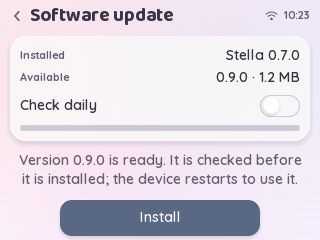
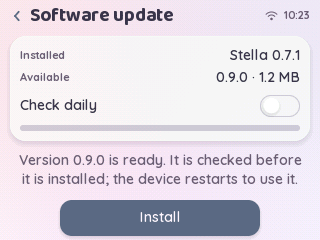
Explain a reset during an update, and erase flash as the image arrives (0.7.1)
Reported on a CYD: OTA from 0.6.0 to 0.6.1 started downloading and then the
device restarted at 0 % and showed Home. Without a serial cable nothing says
why, and the cause is not known yet. Two changes, one to find out and one for
the most likely suspect:

- An update leaves a note in retained RAM next to the supervisor's restart
  record (update_crumb): starting, downloading N %, finishing. The next boot
  reports it once (log, SystemStatus::resetNote) and Settings > About > Last
  reset reads e.g. "Crash · update: downloading 34%" (or Watchdog, Brownout).
  Handled outcomes (success, every failure) clear it, so it only appears
  after a real reset. Validated by magic + checksum; random memory after
  power-on is ignored.
- Esp32Firmware::begin() used esp_ota_begin(part, size) which erases the whole
  1.4 MB slot before the first byte: several seconds of continuous flash
  erase, the longest and most power-hungry step, and exactly where a reset
  "at 0 %" would happen (task watchdog or brownout). It now passes
  OTA_WITH_SEQUENTIAL_WRITES: sectors are erased as the image is written.

Tests: 161 (4 new: the crumb round trip, single report and garbage handling;
a reset note after restart; stages seen during an install and none afterwards;
a failed install leaves none). Firmware 1,466,935 B (74 %), 83,100 B RAM.
Not run on the device: whether this fixes the restart is unknown.

Claude-Session: https://claude.ai/code/session_01WrCzyR31TQn5da2N4PH2yW

Changed region(s): [[0.6875, 0.2042, 0.9375, 0.2625]]

diff --git a/src/stella/net/firmware_update.cpp b/src/stella/net/firmware_update.cpp
@@ -1,6 +1,8 @@
 #include "firmware_update.h"
 
 #include <math.h>
+#include <stddef.h>
+#include <stdio.h>
 #include <string.h>
 
 #include "../core/log.h"
@@ -11,7 +13,64 @@ namespace {
 
 constexpr const char *kTag = "update";
 
+constexpr uint32_t kCrumbMagic = 0x43524d42u;  // "CRMB"
+
+struct Crumb {
+  uint32_t magic;
+  uint8_t stage, percent;
+  uint16_t reserved;
+  uint32_t check;
+};
+static_assert(sizeof(Crumb) == update_crumb::kBytes, "crumb layout");
+
+unsigned char *crumbBlock(Platform *platform) {
+  if (!platform) return nullptr;
+  size_t size = 0;
+  unsigned char *block = static_cast<unsigned char *>(platform->retainedMemory(size));
+  return block && size >= update_crumb::kOffset + sizeof(Crumb) ? block + update_crumb::kOffset : nullptr;
+}
+
+uint32_t crumbCheck(const Crumb &c) { return hash32(&c, offsetof(Crumb, check)); }
+
 }  // namespace
+
+namespace update_crumb {
+
+void set(Platform *platform, uint8_t stage, uint8_t percent) {
+  unsigned char *block = crumbBlock(platform);
+  if (!block) return;
+  Crumb c{};
+  if (stage != None) {
+    c.magic = kCrumbMagic;
+    c.stage = stage;
+    c.percent = percent;
+    c.check = crumbCheck(c);
+  }
+  memcpy(block, &c, sizeof(c));
+}
+
+bool take(Platform *platform, uint8_t &stage, uint8_t &percent) {
+  unsigned char *block = crumbBlock(platform);
+  if (!block) return false;
+  Crumb c;
+  memcpy(&c, block, sizeof(c));
+  memset(block, 0, sizeof(c));  // reported once
+  if (c.magic != kCrumbMagic || c.check != crumbCheck(c) || c.stage == None || c.stage > Finishing) return false;
+  stage = c.stage;
+  percent = c.percent > 100 ? 100 : c.percent;
+  return true;
+}
+
+void describe(uint8_t stage, uint8_t percent, char *out, size_t capacity) {
+  switch (stage) {
+    case Preparing: snprintf(out, capacity, "update: starting"); break;
+    case Downloading: snprintf(out, capacity, "update: downloading %u%%", (unsigned)percent); break;
+    case Finishing: snprintf(out, capacity, "update: finishing"); break;
+    default: snprintf(out, capacity, "%s", ""); break;
+  }
+}
+
+}  // namespace update_crumb
 
 // Streams the image into the slot while hashing it; refuses more than the
 // manifest promised.
@@ -85,6 +144,7 @@ void UpdateService::publish(UpdateState state, const char *error) {
 
 void UpdateService::fail(const char *reason) {
   LOGW(kTag, "update failed: %s", reason);
+  update_crumb::set(platform_, update_crumb::None, 0);  // handled: nothing to explain after a restart
   status_.percent = 0;
   publish(UpdateState::Failed, reason);
 }
@@ -179,10 +239,13 @@ void UpdateService::doInstall() {
   }
   status_.percent = 0;
   publish(UpdateState::Downloading);
+  update_crumb::set(platform_, update_crumb::Preparing, 0);
   if (!slot_->begin(manifest_.size)) {
+    update_crumb::set(platform_, update_crumb::None, 0);
     fail("Can't write the update slot");
     return;
   }
+  update_crumb::set(platform_, update_crumb::Downloading, 0);
   ImageSink sink(*slot_, manifest_.size);
   // Report progress as it streams (every 2 %), without a topic update per chunk.
   class Progress : public HttpSink {
@@ -193,6 +256,7 @@ void UpdateService::doInstall() {
       const uint8_t pct = (uint8_t)((uint64_t)inner_.received() * 100u / s_.manifest_.size);
       if (pct >= s_.status_.percent + 2) {
         s_.status_.percent = pct;
+        update_crumb::set(s_.platform_, update_crumb::Downloading, pct);
         s_.topic_.publish(s_.status_);
       }
       return true;
@@ -207,6 +271,7 @@ void UpdateService::doInstall() {
   limits.timeoutMs = 30000;
   limits.leaseWaitMs = 60000;
   const FetchResult r = http_->get(manifest_.url, progress, limits);
+  update_crumb::set(platform_, update_crumb::Finishing, 100);
   if (!r.ok() || sink.tooMuch() || sink.writeFailed()) {
     slot_->abort();
     fail(sink.writeFailed()   ? "Writing the update failed"
@@ -241,6 +306,7 @@ void UpdateService::doInstall() {
   }
   LOGI(kTag, "update %s staged; restart to run it", manifest_.version);
   status_.percent = 100;
+  update_crumb::set(platform_, update_crumb::None, 0);
   publish(UpdateState::Ready);
 }
 

diff --git a/tests/test_update.cpp b/tests/test_update.cpp
@@ -84,8 +84,9 @@ struct Rig {
   Runtime os;
   RuntimeConfig cfg;
   apps::LauncherApp launcher;
-  explicit Rig(const char *manifestUrl, bool pending = false) {
+  explicit Rig(const char *manifestUrl, bool pending = false, uint8_t crumbStage = 0, uint8_t crumbPercent = 0) {
     dev.platform.setEpoch(kEveningEpoch);
+    if (crumbStage) update_crumb::set(&dev.platform, crumbStage, crumbPercent);  // what an earlier run left behind
     dev.platform.setUpdatePending(pending);
     cfg.renderBuffer = dev.buffer.data();
     cfg.renderBufferPixels = dev.buffer.size();
@@ -530,4 +531,73 @@ TEST(settings_shows_the_offered_update_and_the_toggle_saves) {
   s.tap(entry.centerX(), entry.centerY());
   CHECK(strcmp(s.os.topScreen()->title(), "Software update") == 0);
   CHECK(s.os.settings().autoUpdate);
+}
+
+// ------------------------------------------------------------ explaining a reset
+
+TEST(update_crumb_round_trips_is_reported_once_and_ignores_garbage) {
+  SimPlatform p;
+  uint8_t stage = 99, percent = 99;
+  CHECK(!update_crumb::take(&p, stage, percent));  // nothing there
+  update_crumb::set(&p, update_crumb::Downloading, 34);
+  CHECK(update_crumb::take(&p, stage, percent) && stage == update_crumb::Downloading && percent == 34);
+  CHECK(!update_crumb::take(&p, stage, percent));  // reported once
+  update_crumb::set(&p, update_crumb::Finishing, 100);
+  update_crumb::set(&p, update_crumb::None, 0);  // an update that ended normally leaves nothing
+  CHECK(!update_crumb::take(&p, stage, percent));
+  // Random memory (as after power-on) is not mistaken for a crumb.
+  size_t size = 0;
+  unsigned char *block = static_cast<unsigned char *>(p.retainedMemory(size));
+  for (size_t i = 0; i < size; ++i) block[i] = (unsigned char)(i * 37 + 11);
+  CHECK(!update_crumb::take(&p, stage, percent));
+  update_crumb::set(&p, update_crumb::Downloading, 50);
+  block[update_crumb::kOffset + 5] ^= 0x40;  // a flipped bit in the percent
+  CHECK(!update_crumb::take(&p, stage, percent));
+  char text[40];
+  update_crumb::describe(update_crumb::Downloading, 7, text, sizeof(text));
+  CHECK(strcmp(text, "update: downloading 7%") == 0);
+  update_crumb::describe(update_crumb::Preparing, 0, text, sizeof(text));
+  CHECK(strcmp(text, "update: starting") == 0);
+}
+
+TEST(a_reset_during_an_update_is_explained_after_restart) {
+  Rig rig("https://updates.example/stella/manifest.json", false, update_crumb::Downloading, 34);
+  const SystemStatus st = rig.os.status();
+  CHECK(strcmp(st.resetNote, "update: downloading 34%") == 0);
+  Rig clean("https://updates.example/stella/manifest.json");
+  CHECK(clean.os.status().resetNote[0] == '\0');
+}
+
+TEST(an_install_leaves_a_crumb_while_it_runs_and_none_afterwards) {
+  SimSession s(320, 240);
+  serve(s, Offer{});
+  runCheck(s);
+  bool sawPreparing = false, sawDownloading = false, sawFinishing = false;
+  s.dev.firmware.onEvent = [&](const SimFirmware &f) {
+    uint8_t stage = 0, percent = 0;
+    if (!update_crumb::take(&s.dev.platform, stage, percent)) return;
+    sawPreparing |= stage == update_crumb::Preparing;
+    sawDownloading |= stage == update_crumb::Downloading;
+    sawFinishing |= stage == update_crumb::Finishing;
+    update_crumb::set(&s.dev.platform, stage, percent);  // put it back: we only looked
+    (void)f;
+  };
+  runInstall(s);
+  CHECK(s.os.update().status().state == UpdateState::Ready);
+  CHECK(sawPreparing && sawDownloading && sawFinishing);
+  s.dev.firmware.onEvent = nullptr;
+  uint8_t stage = 0, percent = 0;
+  CHECK(!update_crumb::take(&s.dev.platform, stage, percent));  // finished: nothing to explain
+}
+
+TEST(a_failed_install_leaves_no_crumb) {
+  SimSession s(320, 240);
+  Offer o;
+  o.sha256 = std::string(64, '0');  // the download will not match
+  serve(s, o);
+  runCheck(s);
+  runInstall(s);
+  CHECK(s.os.update().status().state == UpdateState::Failed);
+  uint8_t stage = 0, percent = 0;
+  CHECK(!update_crumb::take(&s.dev.platform, stage, percent));
 }

diff --git a/src/stella/net/firmware_update.h b/src/stella/net/firmware_update.h
@@ -53,6 +53,22 @@ struct UpdateStatus {
   char error[48] = {0};
 };
 
+// A note left in retained memory (next to the supervisor's restart record)
+// while an update runs. If the device resets in the middle, the next boot can
+// say when ("Crash · update: downloading 34%"), which is otherwise
+// invisible without a serial cable. Validated by magic and checksum because
+// the memory is random after power-on.
+namespace update_crumb {
+enum Stage : uint8_t { None = 0, Preparing = 1, Downloading = 2, Finishing = 3 };
+constexpr size_t kOffset = 40;  // after RestartRecord
+constexpr size_t kBytes = 12;
+void set(Platform *platform, uint8_t stage, uint8_t percent);
+// Reads and clears. False when there is no valid crumb.
+bool take(Platform *platform, uint8_t &stage, uint8_t &percent);
+// "update: downloading 34%" (shown after the reset cause).
+void describe(uint8_t stage, uint8_t percent, char *out, size_t capacity);
+}  // namespace update_crumb
+
 class UpdateControl {
  public:
   virtual ~UpdateControl() = default;

diff --git a/host/host_board.h b/host/host_board.h
@@ -185,6 +185,7 @@ class SimFirmware : public FirmwareSlot {
   std::vector<uint8_t> image;
   bool begun = false, finished = false, aborted = false, signatureOk = true;
   int verifies = 0;
+  std::function<void(const SimFirmware &)> onEvent;  // tests: look around at each begin / write / finish
 
   bool available() override { return availableFlag; }
   bool requiresSignature() override { return keyed; }
@@ -194,15 +195,18 @@ class SimFirmware : public FirmwareSlot {
     image.clear();
     begun = true;
     finished = aborted = false;
+    if (onEvent) onEvent(*this);
     return true;
   }
   bool write(const uint8_t *data, size_t size) override {
     if (!begun) return false;
+    if (onEvent) onEvent(*this);
     if (failWriteAfter >= 0 && image.size() + size > (size_t)failWriteAfter) return false;
     image.insert(image.end(), data, data + size);
     return true;
   }
   bool finish() override {
+    if (onEvent) onEvent(*this);
     if (failFinish) return false;
     finished = true;
     return true;

diff --git a/src/stella/runtime/runtime.cpp b/src/stella/runtime/runtime.cpp
@@ -85,6 +85,14 @@ bool Runtime::begin(const Board &board, const RuntimeConfig &config) {
     }
     supervisorRestarts_ = record.restarts;
   }
+  {
+    // An update that was running when the device last reset: say so (About).
+    uint8_t stage = 0, percent = 0;
+    if (update_crumb::take(board.platform, stage, percent)) {
+      update_crumb::describe(stage, percent, resetNote_, sizeof(resetNote_));
+      LOGW(kTag, "the last run reset during %s", resetNote_);
+    }
+  }
 
   wifi_.configure(board.wifi, board.storage, &jobs_, config.wifiSsid, config.wifiPassword, board.setup);
   if (wifi_.available()) jobs_.add(wifi_, millis());
@@ -660,6 +668,7 @@ SystemStatus Runtime::status() const {
   s.uptimeMs = millis();
   s.memory = board_.platform->memory();
   s.resetCause = board_.platform->resetCause();
+  copyText(s.resetNote, sizeof(s.resetNote), resetNote_);
   s.width = screen_.w;
   s.height = screen_.h;
   s.density = theme_.density;

diff --git a/src/stella/port/esp32/esp32_port.h b/src/stella/port/esp32/esp32_port.h
@@ -202,7 +202,10 @@ class Esp32Firmware : public FirmwareSlot {
     abort();
     part_ = target();
     if (!part_ || size > part_->size) return false;
-    open_ = esp_ota_begin(part_, size, &handle_) == ESP_OK;
+    // Erase as the image is written (sector by sector) instead of the whole
+    // slot up front: that is one long flash operation of several seconds, and
+    // the heaviest current draw of the whole update, before a byte arrives.
+    open_ = esp_ota_begin(part_, OTA_WITH_SEQUENTIAL_WRITES, &handle_) == ESP_OK;
     return open_;
   }
   bool write(const uint8_t *data, size_t size) override { return open_ && esp_ota_write(handle_, data, size) == ESP_OK; }

diff --git a/src/stella/apps/settings_app.cpp b/src/stella/apps/settings_app.cpp
@@ -959,6 +959,7 @@ void SettingsApp::AboutScreen::refresh(AppContext &ctx) {
            (unsigned long)(s.memory.largestFreeBlock / 1024));
   snprintf(next[5], 40, "%lu KB", (unsigned long)(s.memory.minimumFreeHeap / 1024));
   snprintf(next[6], 40, "%s", resetName(s.resetCause));
+  if (s.resetNote[0]) snprintf(next[6], 40, "%s \xc2\xb7 %.24s", resetName(s.resetCause), s.resetNote);
   if (!s.network.present) snprintf(next[7], 40, "Not available");
   else if (s.network.connected) snprintf(next[7], 40, "%.24s %d dBm", s.network.ssid, s.network.rssi);
   else snprintf(next[7], 40, "Disconnected");

diff --git a/src/stella/runtime/runtime.h b/src/stella/runtime/runtime.h
@@ -25,7 +25,7 @@
 #include "event_queue.h"
 
 #ifndef STELLA_VERSION
-#define STELLA_VERSION "0.7.0"
+#define STELLA_VERSION "0.7.1"
 #endif
 
 namespace stella {
@@ -283,6 +283,7 @@ class Runtime : public AppContext, public TopicNotifier, public ServiceHost {
     uint32_t startMs = 0;
     bool active = false;
   } transition_;
+  char resetNote_[40] = {0};
   bool transitionsSlow_ = false;  // a frame took too long: slide no more this boot
   uint8_t previewStep_ = 0;  // 0 = no preview playing; else 1 + the note being played
   uint32_t previewAt_ = 0;

diff --git a/src/stella/app/app.h b/src/stella/app/app.h
@@ -172,6 +172,7 @@ struct SystemStatus {
   uint32_t uptimeMs = 0;
   MemoryStats memory;
   ResetCause resetCause = ResetCause::Unknown;
+  char resetNote[40] = {0};  // what the last run was doing when it reset, if known (an update)
   int16_t width = 0, height = 0;
   Density density = Density::Compact;
   NetworkStatus network;

diff --git a/docs/ARCHITECTURE.md b/docs/ARCHITECTURE.md
@@ -310,6 +310,18 @@ to 6 hours); an offer appears as "Update x.y.z" on Settings' About row
    minutes) or never draws a frame is therefore replaced by the old one by
    itself. A new update is refused until the last one is confirmed.
 
+**When the device resets mid-update** (reported on a real CYD: the download
+started and the device restarted at 0 %), nothing says why without a serial
+cable. So the update leaves a small note in retained RAM (`update_crumb`, next
+to the supervisor's restart record): *starting*, *downloading N %*,
+*finishing*. The next boot reports it once, and Settings > About > Last reset
+reads, for example, `Crash · update: downloading 34%` (or `Watchdog`,
+`Brownout`, ...). Every handled outcome clears the note, so it only appears
+after a real reset. The ESP32 slot also erases flash *as the image is written*
+(`OTA_WITH_SEQUENTIAL_WRITES`) instead of the whole slot before the first byte:
+one multi-second erase is the longest, most power-hungry operation of an
+update, and the prime suspect for a reset right at the start.
+
 Every failure (unreachable server, bad manifest, damaged or oversize download,
 a flash write error, an invalid image) aborts the slot write and leaves the
 running firmware untouched. The code never writes over the running image: a
@@ -357,8 +369,8 @@ Apps get their own namespace (`AppContext::saveAppRecord`).
 
 | Item | Size |
 | --- | --- |
-| Program (flash) | 1,466,187 B of a 1,966,080 B app slot (74%); mbedTLS/HTTPS is most of it |
-| Static RAM (globals) | 83,060 B; 244,620 B left for stacks and heap (the phone-setup server's four request slots are ~3 KB of it) |
+| Program (flash) | 1,466,935 B of a 1,966,080 B app slot (74%); mbedTLS/HTTPS is most of it |
+| Static RAM (globals) | 83,100 B; 244,580 B left for stacks and heap (the phone-setup server's four request slots are ~3 KB of it) |
 | With DMA (`STELLA_CYD_DMA 1`) | not re-measured since 0.6.0 (then 1,495,365 B flash, 93,412 B static RAM) |
 | Single-app layout (`cyd-huge`) | the same firmware in a 3 MB slot (46%), no updates |
 | Render chunk buffer | 12,800 B (320 x 20 px); a second one with DMA |

diff --git a/README.md b/README.md
@@ -16,9 +16,9 @@ management and versioned settings.
 
 | | |
 | --- | --- |
-| Version | 0.7.0: screen transitions (on top of 0.6.1: daily update check, volume, Stopwatch, faster phone setup) |
+| Version | 0.7.1: update diagnostics and gentler flash writes (on top of 0.7.0 screen transitions, 0.6.1 daily update check, volume, Stopwatch, faster phone setup) |
 | First board | ESP32-2432S028R "Cheap Yellow Display" (2.8" 320x240, XPT2046) |
-| Host tests | 157 tests under ASan + UBSan, incl. touch-driven Wi-Fi onboarding, alarms, the stopwatch and the update flow; screenshots at 320x240 and 480x320 |
+| Host tests | 161 tests under ASan + UBSan, incl. touch-driven Wi-Fi onboarding, alarms, the stopwatch and the update flow; screenshots at 320x240 and 480x320 |
 | Firmware build | Compiles with Arduino-ESP32 3.3.12: 1.47 MB flash (74% of a 1.9 MB update slot), 83 KB static RAM (25%) |
 | On hardware | First runs on a CYD by the owner (0.3.0): boots, Wi-Fi, Weather; colour, brightness and paging feedback addressed in 0.3.1 (not yet re-checked on the device). |
 
@@ -158,7 +158,9 @@ is optional extra security: see [Architecture > Updates](docs/ARCHITECTURE.md).
     restart the About screen shows it and, a minute later, the `health` log
     says the update is confirmed. To test the rollback: install a build whose
     firmware hangs or resets at boot (never confirmed): the device returns to
-    the previous version by itself. With *Check daily* on (Settings > About >
+    the previous version by itself. If the device restarts during the
+    download, read Settings > About > Last reset (0.7.1 adds what it was
+    doing, e.g. `Crash · update: downloading 34%`) and the `Lowest free` heap. With *Check daily* on (Settings > About >
     Software update, on by default) the device also looks by itself two
     minutes after boot and then once a day: Settings' About row says
     "Update 0.6.2" without anything being installed.
